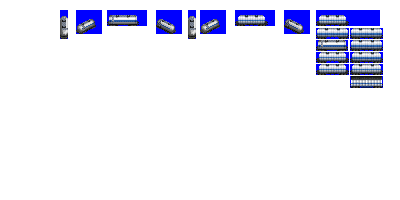
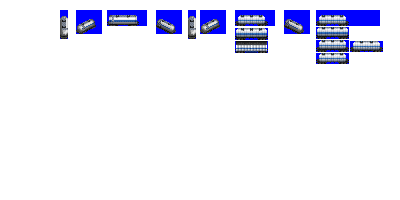
Change: delete screamer, and gen 6 edibles tank cars (not needed)

Changed region(s): [[0.78, 0.06, 0.96, 0.45], [0.57, 0.06, 0.69, 0.27]]

diff --git a/src/vehicles/edibles_tank_cars.py b/src/vehicles/edibles_tank_cars.py
@@ -115,41 +115,7 @@ def main():
                               spritesheet_suffix=1,
                               graphics_processor=consist.graphics_processors[1])
 
-    consist = EdiblesTankConsist(roster='pony',
-                                 base_numeric_id=3000,
-                                 gen=6,
-                                 subtype='A')
-
-    consist.add_unit(type=FreightCar,
-                     vehicle_length=6)
-
-    consist.add_model_variant(start_date=0,
-                              end_date=global_constants.max_game_date,
-                              spritesheet_suffix=0,
-                              graphics_processor=consist.graphics_processors[0])
-
-    consist.add_model_variant(start_date=0,
-                              end_date=global_constants.max_game_date,
-                              spritesheet_suffix=1,
-                              graphics_processor=consist.graphics_processors[1])
-
-    consist = EdiblesTankConsist(roster='pony',
-                                 base_numeric_id=3060,
-                                 gen=6,
-                                 subtype='B')
-
-    consist.add_unit(type=FreightCar,
-                     vehicle_length=8)
-
-    consist.add_model_variant(start_date=0,
-                              end_date=global_constants.max_game_date,
-                              spritesheet_suffix=0,
-                              graphics_processor=consist.graphics_processors[0])
-
-    consist.add_model_variant(start_date=0,
-                              end_date=global_constants.max_game_date,
-                              spritesheet_suffix=1,
-                              graphics_processor=consist.graphics_processors[1])
+    # no need for gen 6, would be same speed + capacity as gen 5
 
     #--------------- llama ----------------------------------------------------------------------
     consist = EdiblesTankConsist(roster='llama',

diff --git a/src/rosters/pony.py b/src/rosters/pony.py
@@ -21,7 +21,6 @@ from vehicles import ramsbottom
 from vehicles import raven
 from vehicles import roarer
 from vehicles import scooby
-from vehicles import screamer
 from vehicles import serpentine
 from vehicles import shoebox
 from vehicles import slammer
@@ -81,7 +80,6 @@ roster = Roster(id = 'pony',
                            super_shoebox,
                            sparkycat,
                            toaster,
-                           screamer,
                            slammer,
                            tin_rocket,
                            scooby,
